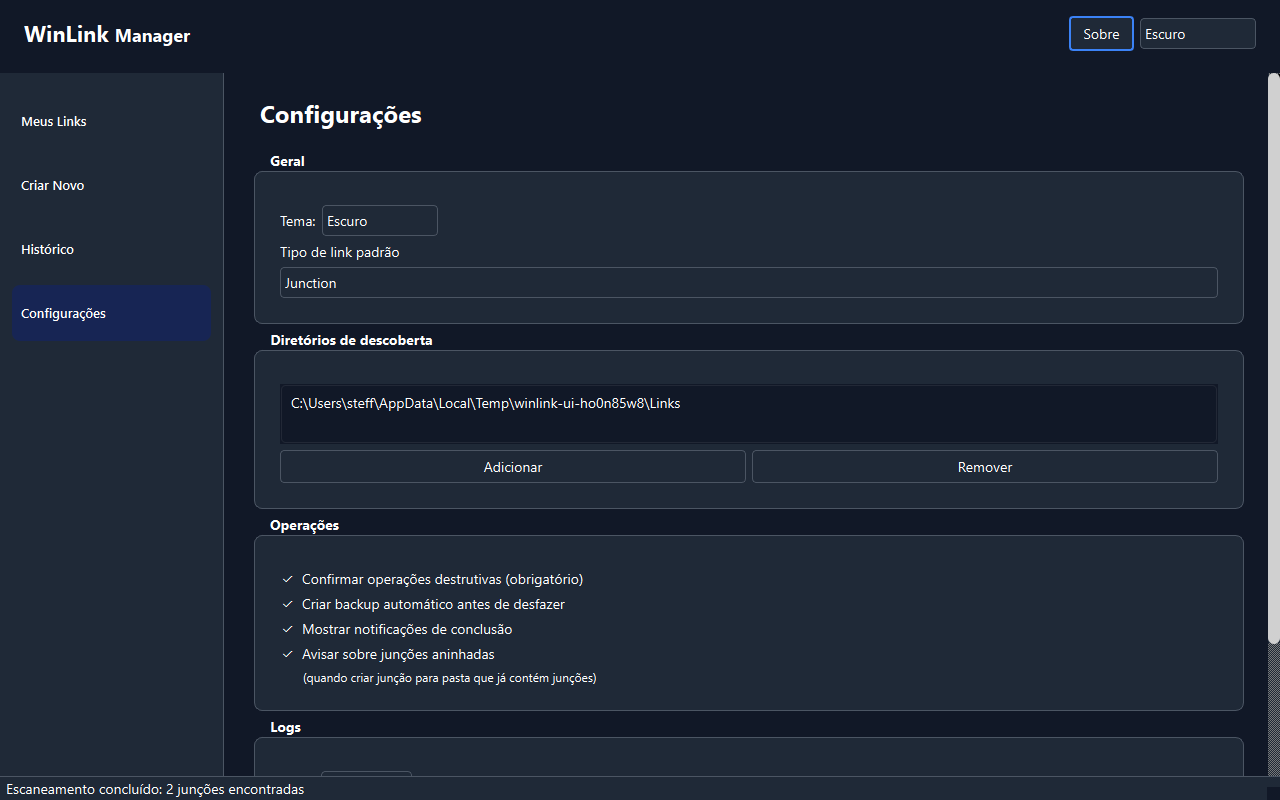
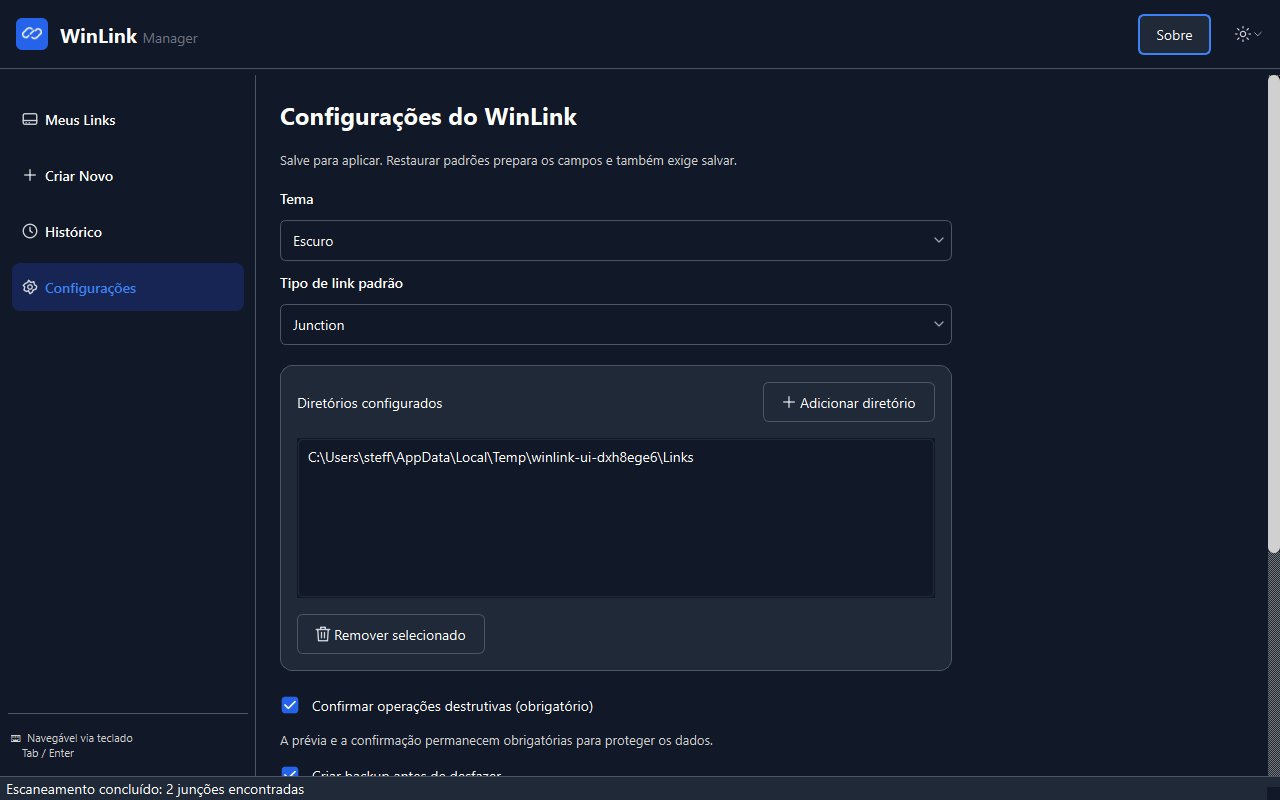
Atualiza capturas e evidências da revisão visual validada

diff --git a/docs/validacao/REDESIGN.md b/docs/validacao/REDESIGN.md
@@ -35,3 +35,24 @@ Validação final do build de código `8b8ab19`: 299 testes Python aprovados (XM
 ## Decisão posterior do mantenedor — 04/11/2026
 
 Os testes em Windows limpo sem Python e Windows 10 foram explicitamente dispensados pelo mantenedor. Permanecem não executados e não são tratados como aprovados; deixam de bloquear esta entrega por decisão de escopo. A pendência restante de permissões é a validação manual de symlink de diretório e de arquivo com o aplicativo elevado (ou Modo de Desenvolvedor). Os resultados WinError 1314 acima continuam sendo a evidência histórica das tentativas sem privilégio.
+
+## Revisão visual após comparação com o protótipo — 04/11/2026
+
+As capturas anteriores não comprovavam fidelidade suficiente: faltavam ícones, a criação não trazia a prévia estrutural, e ações de histórico/configurações estavam em posições e tamanhos diferentes. A revisão corrige a apresentação sem alterar serviços de arquivos, confirmações, identidade ou preservação de dados.
+
+- Cabeçalho com marca e alternância de tema por ícone/menu; navegação e cartões com símbolos vetoriais que acompanham o tema.
+- Lista com título/atualização/início e controles de busca/filtro/visualização alinhados, cartões com ícone de arquivo/pasta, status e acesso às propriedades.
+- Criação com quatro opções em grade 2×2, descrições, campos com seletores de largura adequada, botão Avançar e prévia estrutural em duas colunas no desktop, empilhadas em janela reduzida. A ilustração usa somente os caminhos digitados; validação/operação continuam reais.
+- Histórico com exportação/limpeza no topo, filtros agrupados, resultado em badges e detalhes/desfazer por registro. Alternativas por seleção continuam disponíveis para teclado.
+- Configurações em coluna limitada a 672 px, campos com labels, ações de restaurar/descartar/salvar próximas do conteúdo. Propriedades, prévia, reversão, progresso, filtros, detalhes e Sobre têm cabeçalhos, ícones, espaçamentos e ações consistentes.
+- Indicadores de radios/checkboxes e setas de seleção agora são explícitos nos dois temas. SVGs de interface entram no empacotamento, sem dependência de rede ou Node.
+
+**Validação atual:** 308 testes Python aprovados, Ruff/Black/mypy aprovados. Os nove testes de layout também passaram em processo separado com `QT_SCALE_FACTOR=2`. Eles verificam dimensões reais, ausência de rolagem horizontal externa, tamanho legível das opções, presença de ícones, reposicionamento do cabeçalho, ações por registro e acesso ao botão Salvar. No monitor em escala 200%, o caso desktop é limitado à área lógica disponível pelo Windows; o cenário reduzido permanece exatamente 760×400. A primeira tentativa de pedir 1280×800 nessa escala encontrou o limite físico do monitor; o teste foi corrigido para respeitar essa área, sem ignorar o cenário.
+
+`scripts/capture_ui.py` foi ampliado para capturar as quatro telas e propriedades/prévia/reversão/progresso nos dois temas, além de filtros e Sobre. As capturas reduzidas agora validam 760×400 por assert, evitando tratar como sucesso uma janela que o layout forçou a ficar maior. Saídas de revisão/alta escala ficam em `build/layout-review` e `build/layout-review-highscale`; as capturas vigentes selecionadas substituem as anteriores em `capturas/`.
+
+Código desta revisão: `eec1dee`. Distribuição e hashes atuais são atualizados nos mesmos relatórios JSON da entrega, preservando a decisão de dispensa de Windows limpo/Windows 10 e a pendência manual de symlinks com privilégios.
+
+A suíte de layout também cobre a seleção exclusiva ao clicar repetidamente no tipo atual e a permanência do estado vazio ao alternar a visualização. Verificação final: 308 testes Python e nove testes de layout em escala 200% aprovados.
+
+Validação do pacote final desta revisão: portátil e instalado abriram com os ícones de navegação/criação presentes; o smoke test também gerou capturas do executável congelado. Instalação e desinstalação com/sem histórico passaram em diretório e AppId isolados, preservando junction e dados de teste. O instalador de produção foi regenerado com todos os SVGs e QtSvg incluídos; hashes atuais em `redesign-artifacts.json`. Não houve alteração em dados/configurações da instalação do usuário.

diff --git a/docs/guias/USO.md b/docs/guias/USO.md
@@ -28,9 +28,9 @@ Em falhas, leia os caminhos preservados antes de agir. Se os arquivos já foram 
 
 ## Histórico e preferências
 
-O histórico combina operação, resultado, períodos rápidos e datas inclusivas em **Personalizado**. **Detalhes** mostra caminhos, erro e metadados. Criações já desfeitas são indicadas e não podem ser revertidas novamente pelo histórico. Registros novos guardam identidade; registros antigos continuam legíveis e usam a verificação de integridade existente. **Exportar** inclui todos os registros, independentemente dos filtros. **Limpar Histórico** exige confirmação e não altera links.
+O histórico combina operação, resultado, períodos rápidos e datas inclusivas em **Personalizado**. Nas ações de cada registro, **Detalhes** mostra caminhos, erro e metadados. Criações já desfeitas são indicadas e não podem ser revertidas novamente pelo histórico. Registros novos guardam identidade; registros antigos continuam legíveis e usam a verificação de integridade existente. **Exportar** inclui todos os registros, independentemente dos filtros. **Limpar Histórico** exige confirmação e não altera links.
 
-O cabeçalho permite Claro, Escuro e Seguir sistema; automático acompanha mudanças do host. Nas configurações, **Restaurar padrões** prepara os campos e só persiste com **Salvar**. **Descartar alterações** recarrega os valores salvos. Caminhos personalizados do histórico/log não são apagados pela restauração de preferências. Notificações, backup, avisos e nível de log usam os serviços reais. **Abrir pasta de logs** ajuda a investigar falhas.
+O ícone de sol/lua no cabeçalho alterna Claro/Escuro; a seta ao lado abre o menu com Claro, Escuro e Seguir sistema. Automático acompanha mudanças do host. Nas configurações, **Restaurar padrões** prepara os campos e só persiste com **Salvar**. **Descartar alterações** recarrega os valores salvos. Caminhos personalizados do histórico/log não são apagados pela restauração de preferências. Notificações, backup, avisos e nível de log usam os serviços reais. **Abrir pasta de logs** ajuda a investigar falhas.
 
 Atalhos: Ctrl+N criar; Ctrl+H histórico; Ctrl+, configurações; Ctrl+F buscar; F5 atualizar; Ctrl+Q sair. Tab/Shift+Tab percorrem controles; Escape fecha confirmações ou solicita cancelamento seguro no progresso. Telas e diálogos têm rolagem para alcançar os últimos controles em janelas pequenas.
 
@@ -38,7 +38,7 @@ Atalhos: Ctrl+N criar; Ctrl+H histórico; Ctrl+, configurações; Ctrl+F buscar;
 
 O desinstalador remove configuração/cache/log padrão e pergunta se deve manter o histórico. Em modo silencioso mantém o histórico, salvo `/DELETEHISTORY`. Não apaga dados migrados, destinos de junctions nem arquivos de histórico/log personalizados.
 
-Windows 10 mínimo e máquina limpa sem Python ainda precisam de homologação. Neste host a criação de symlinks retornou erro 1314; o teste comprova a falha segura, não o sucesso com privilégios. Ver [validação](../validacao/REDESIGN.md).
+Windows 10 e máquina limpa sem Python não foram homologados; esses testes foram dispensados pelo mantenedor. Neste host a criação de symlinks retornou erro 1314; o teste comprova a falha segura, não o sucesso com privilégios. Ver [validação](../validacao/REDESIGN.md).
 
 ## Capturas do aplicativo real
 
@@ -49,3 +49,8 @@ Geradas com links reais em diretório temporário isolado, sem dados do usuário
 ![Histórico](../validacao/capturas/historico-light.png)
 ![Configurações](../validacao/capturas/configuracoes-dark.png)
 ![Propriedades](../validacao/capturas/propriedades-dark.png)
+
+Diálogos revisados:
+
+![Prévia](../validacao/capturas/previa-dark.png)
+![Reversão](../validacao/capturas/reversao-light.png)

diff --git a/docs/produto/NOTAS-DE-VERSAO.md b/docs/produto/NOTAS-DE-VERSAO.md
@@ -6,4 +6,10 @@ Novidades: tipo padrão persistente com compatibilidade de configuração, resta
 
 Proteções: cache preservado em atualização incompleta, confirmação obrigatória, identidade revalidada antes de reverter, identidade persistida em registros novos, cancelamento cooperativo, backups e mensagens distintas para falhas e restauração já realizada. Configuração e histórico anteriores continuam legíveis.
 
-Licença MIT, escolhida pelo mantenedor. A versão continua 0.1.0; nenhum release remoto foi publicado. Builds locais não são assinados. Instalação e portátil serão distribuíveis após fechar a homologação em Windows limpo sem Python, Windows 10 e sucesso de symlinks com permissões apropriadas. Consulte [validação](../validacao/REDESIGN.md).
+Licença MIT, escolhida pelo mantenedor. A versão continua 0.1.0; nenhum release remoto foi publicado. Builds locais não são assinados. Windows limpo sem Python e Windows 10 tiveram os testes dispensados pelo mantenedor; falta o teste manual de sucesso de symlinks com permissões apropriadas. Consulte [validação](../validacao/REDESIGN.md).
+
+## Revisão de fidelidade visual — 04/11/2026
+
+Ícones vetoriais em navegação, cartões, ações e diálogos; marca e tema no cabeçalho; criação com grade 2×2 e prévia estrutural responsiva; histórico com ações no topo e por registro; configurações em coluna limitada. Botões, labels, espaçamentos e indicadores de seleção revisados em claro/escuro e escala 200%. Rolagem real em 760×400 validada por testes; 308 testes Python aprovados. Os pacotes foram regenerados para incluir os recursos visuais.
+
+Windows limpo e Windows 10 foram dispensados pelo mantenedor e permanecem não homologados. O teste manual de symlink de arquivo/diretório com permissões apropriadas continua pendente.

diff --git a/docs/planejamento/PLANO.md b/docs/planejamento/PLANO.md
@@ -55,3 +55,7 @@ Ideias não aprovadas para esta entrega permanecem em [MELHORIAS.md](MELHORIAS.m
 ## Checkpoint vigente — 04/11/2026, 17:49; validação final após o checkpoint
 
 Implementação local da etapa 6.6 entregue; testes e evidências atuais em [REDESIGN.md](../validacao/REDESIGN.md). Após decisão do mantenedor, Windows limpo e Windows 10 foram dispensados; resta o teste manual de symlinks com privilégios. Evidência do host: este host Windows 11 tem Python instalado, não oferece Windows Sandbox e negou a criação real dos dois tipos de symlink com WinError 1314. O trabalho local não substitui esses testes nem autoriza anunciar lançamento homologado.
+
+## Revisão de interface — 04/11/2026
+
+Comparação posterior com o protótipo corrigiu ícones ausentes, posições/dimensões dos botões, criação em duas colunas, ações do histórico, largura das preferências e apresentação dos diálogos. Capturas vigentes substituídas. Validação: 308 testes Python e nove testes de layout em escala 200%, com dimensões reduzidas reais. Evidência consolidada em REDESIGN.md; a revisão não declara homologados os testes dispensados ou ainda pendentes.
